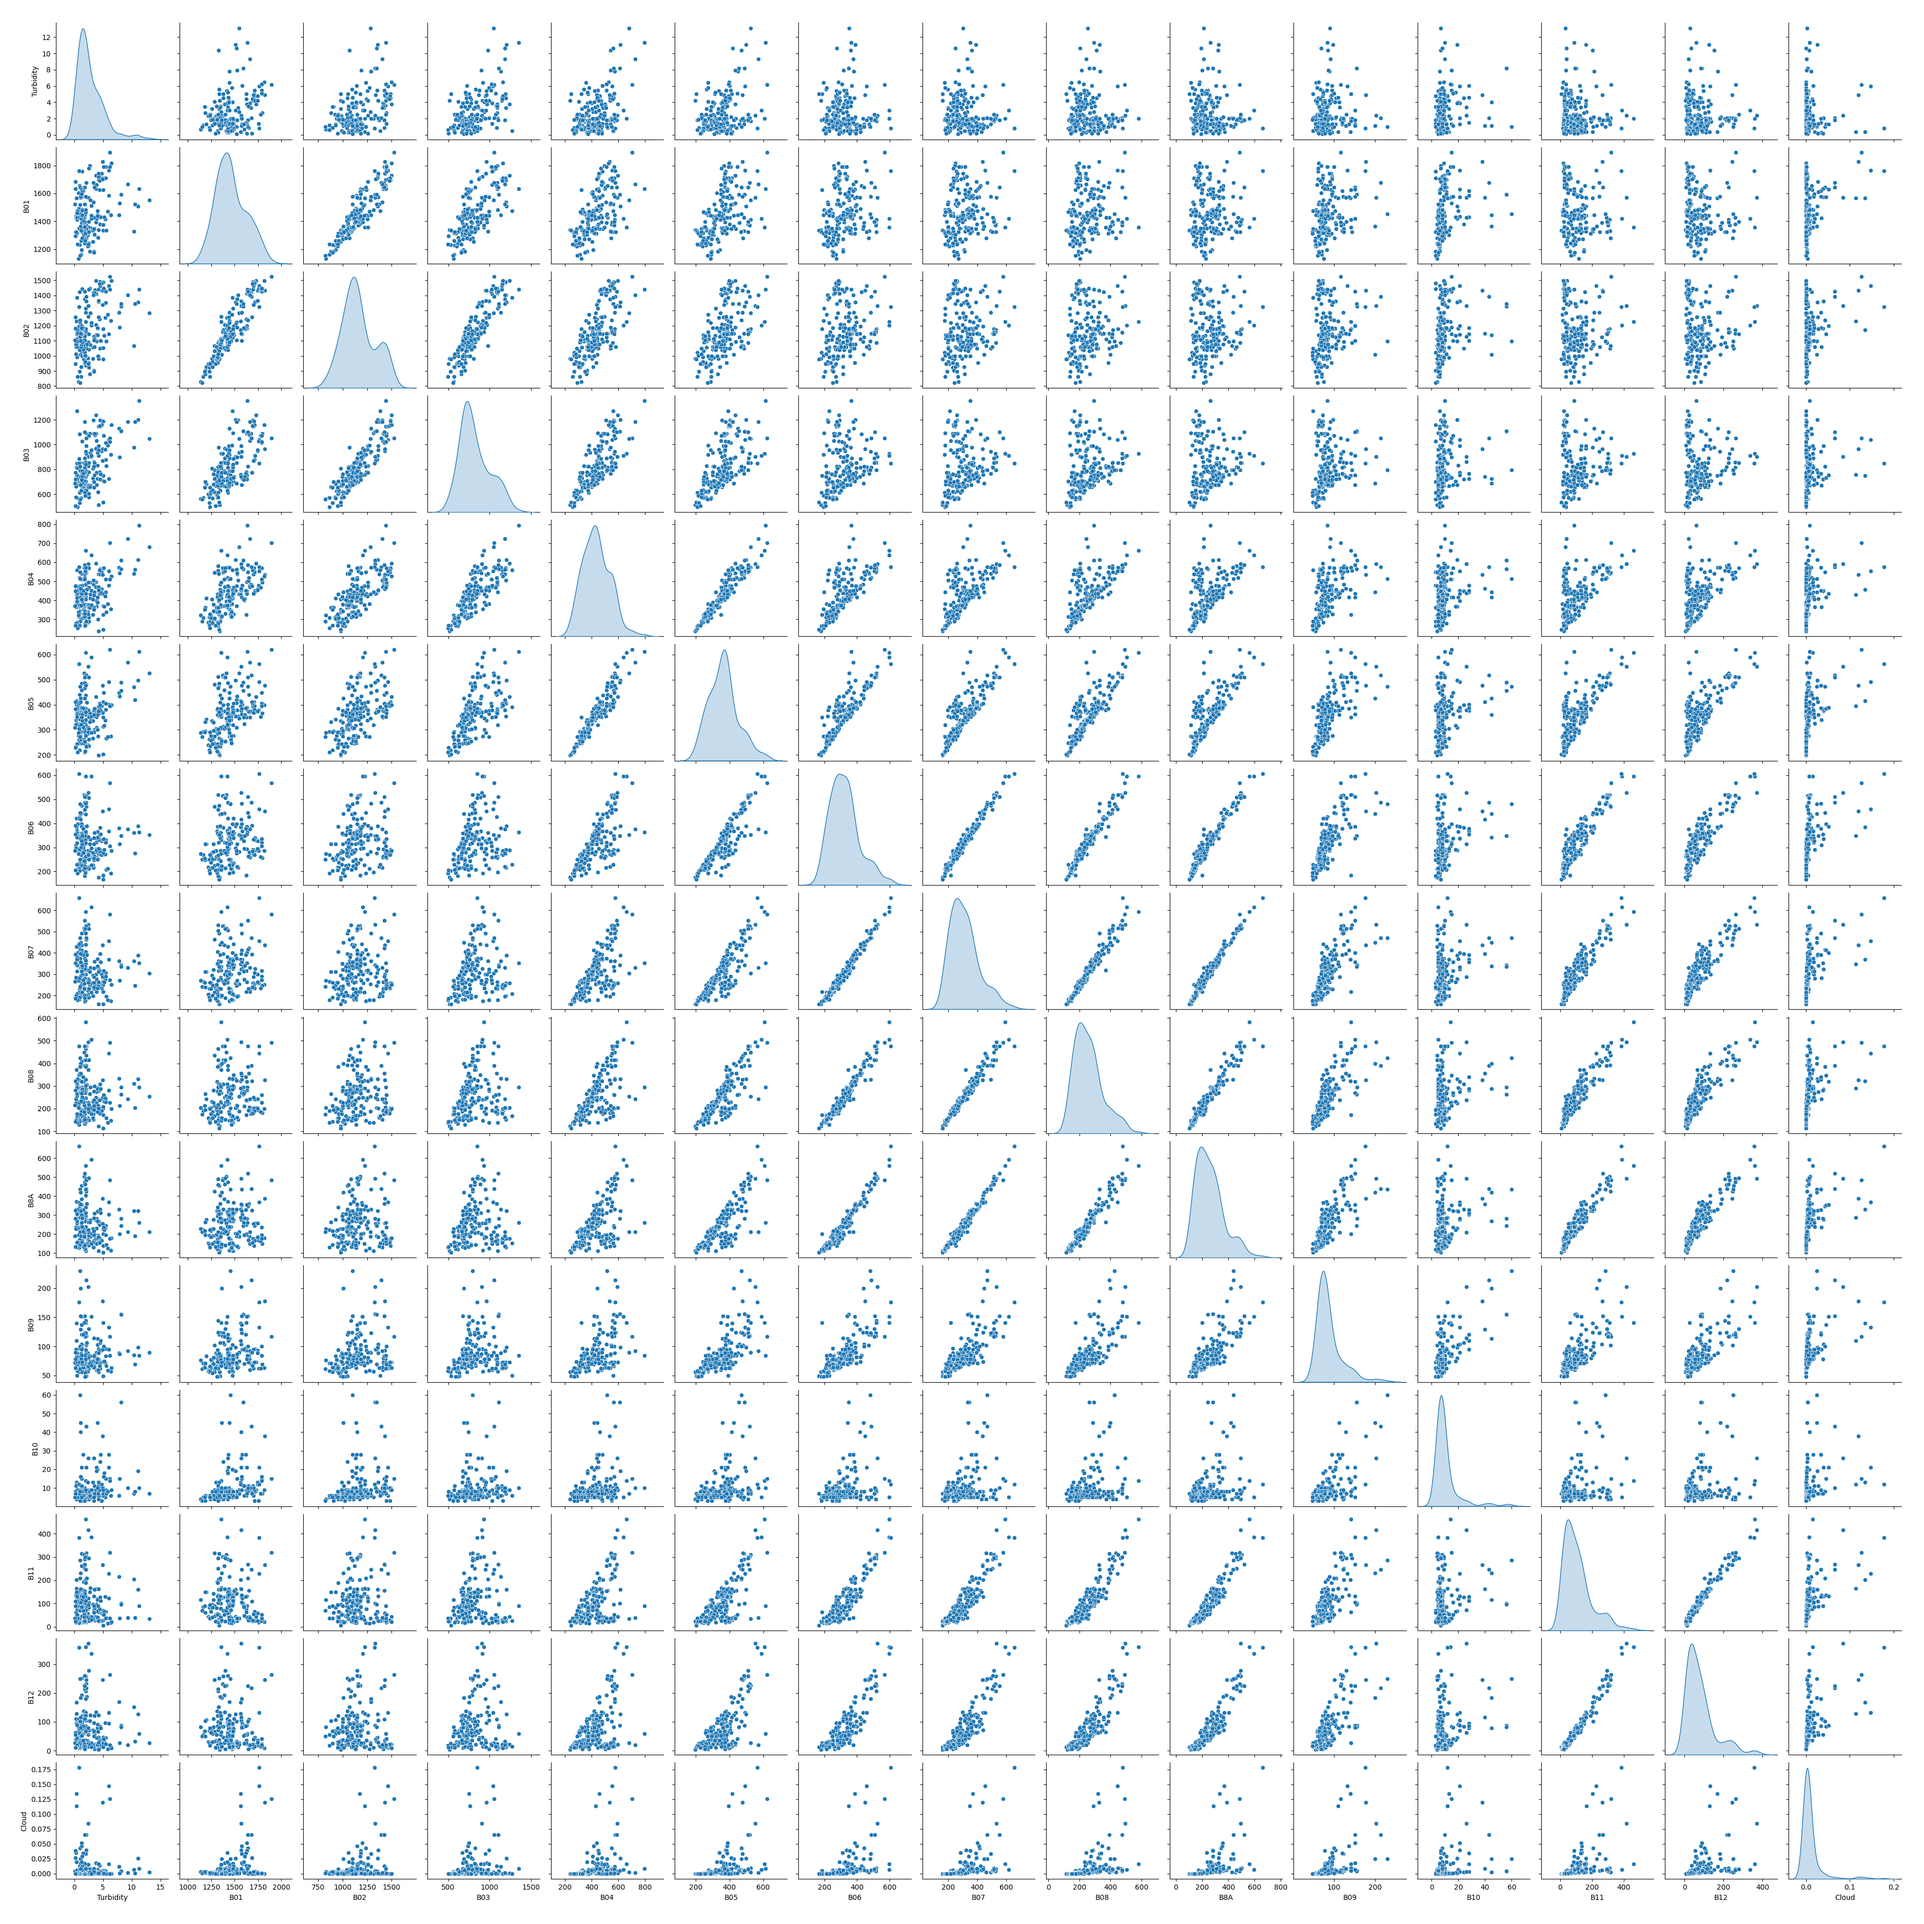
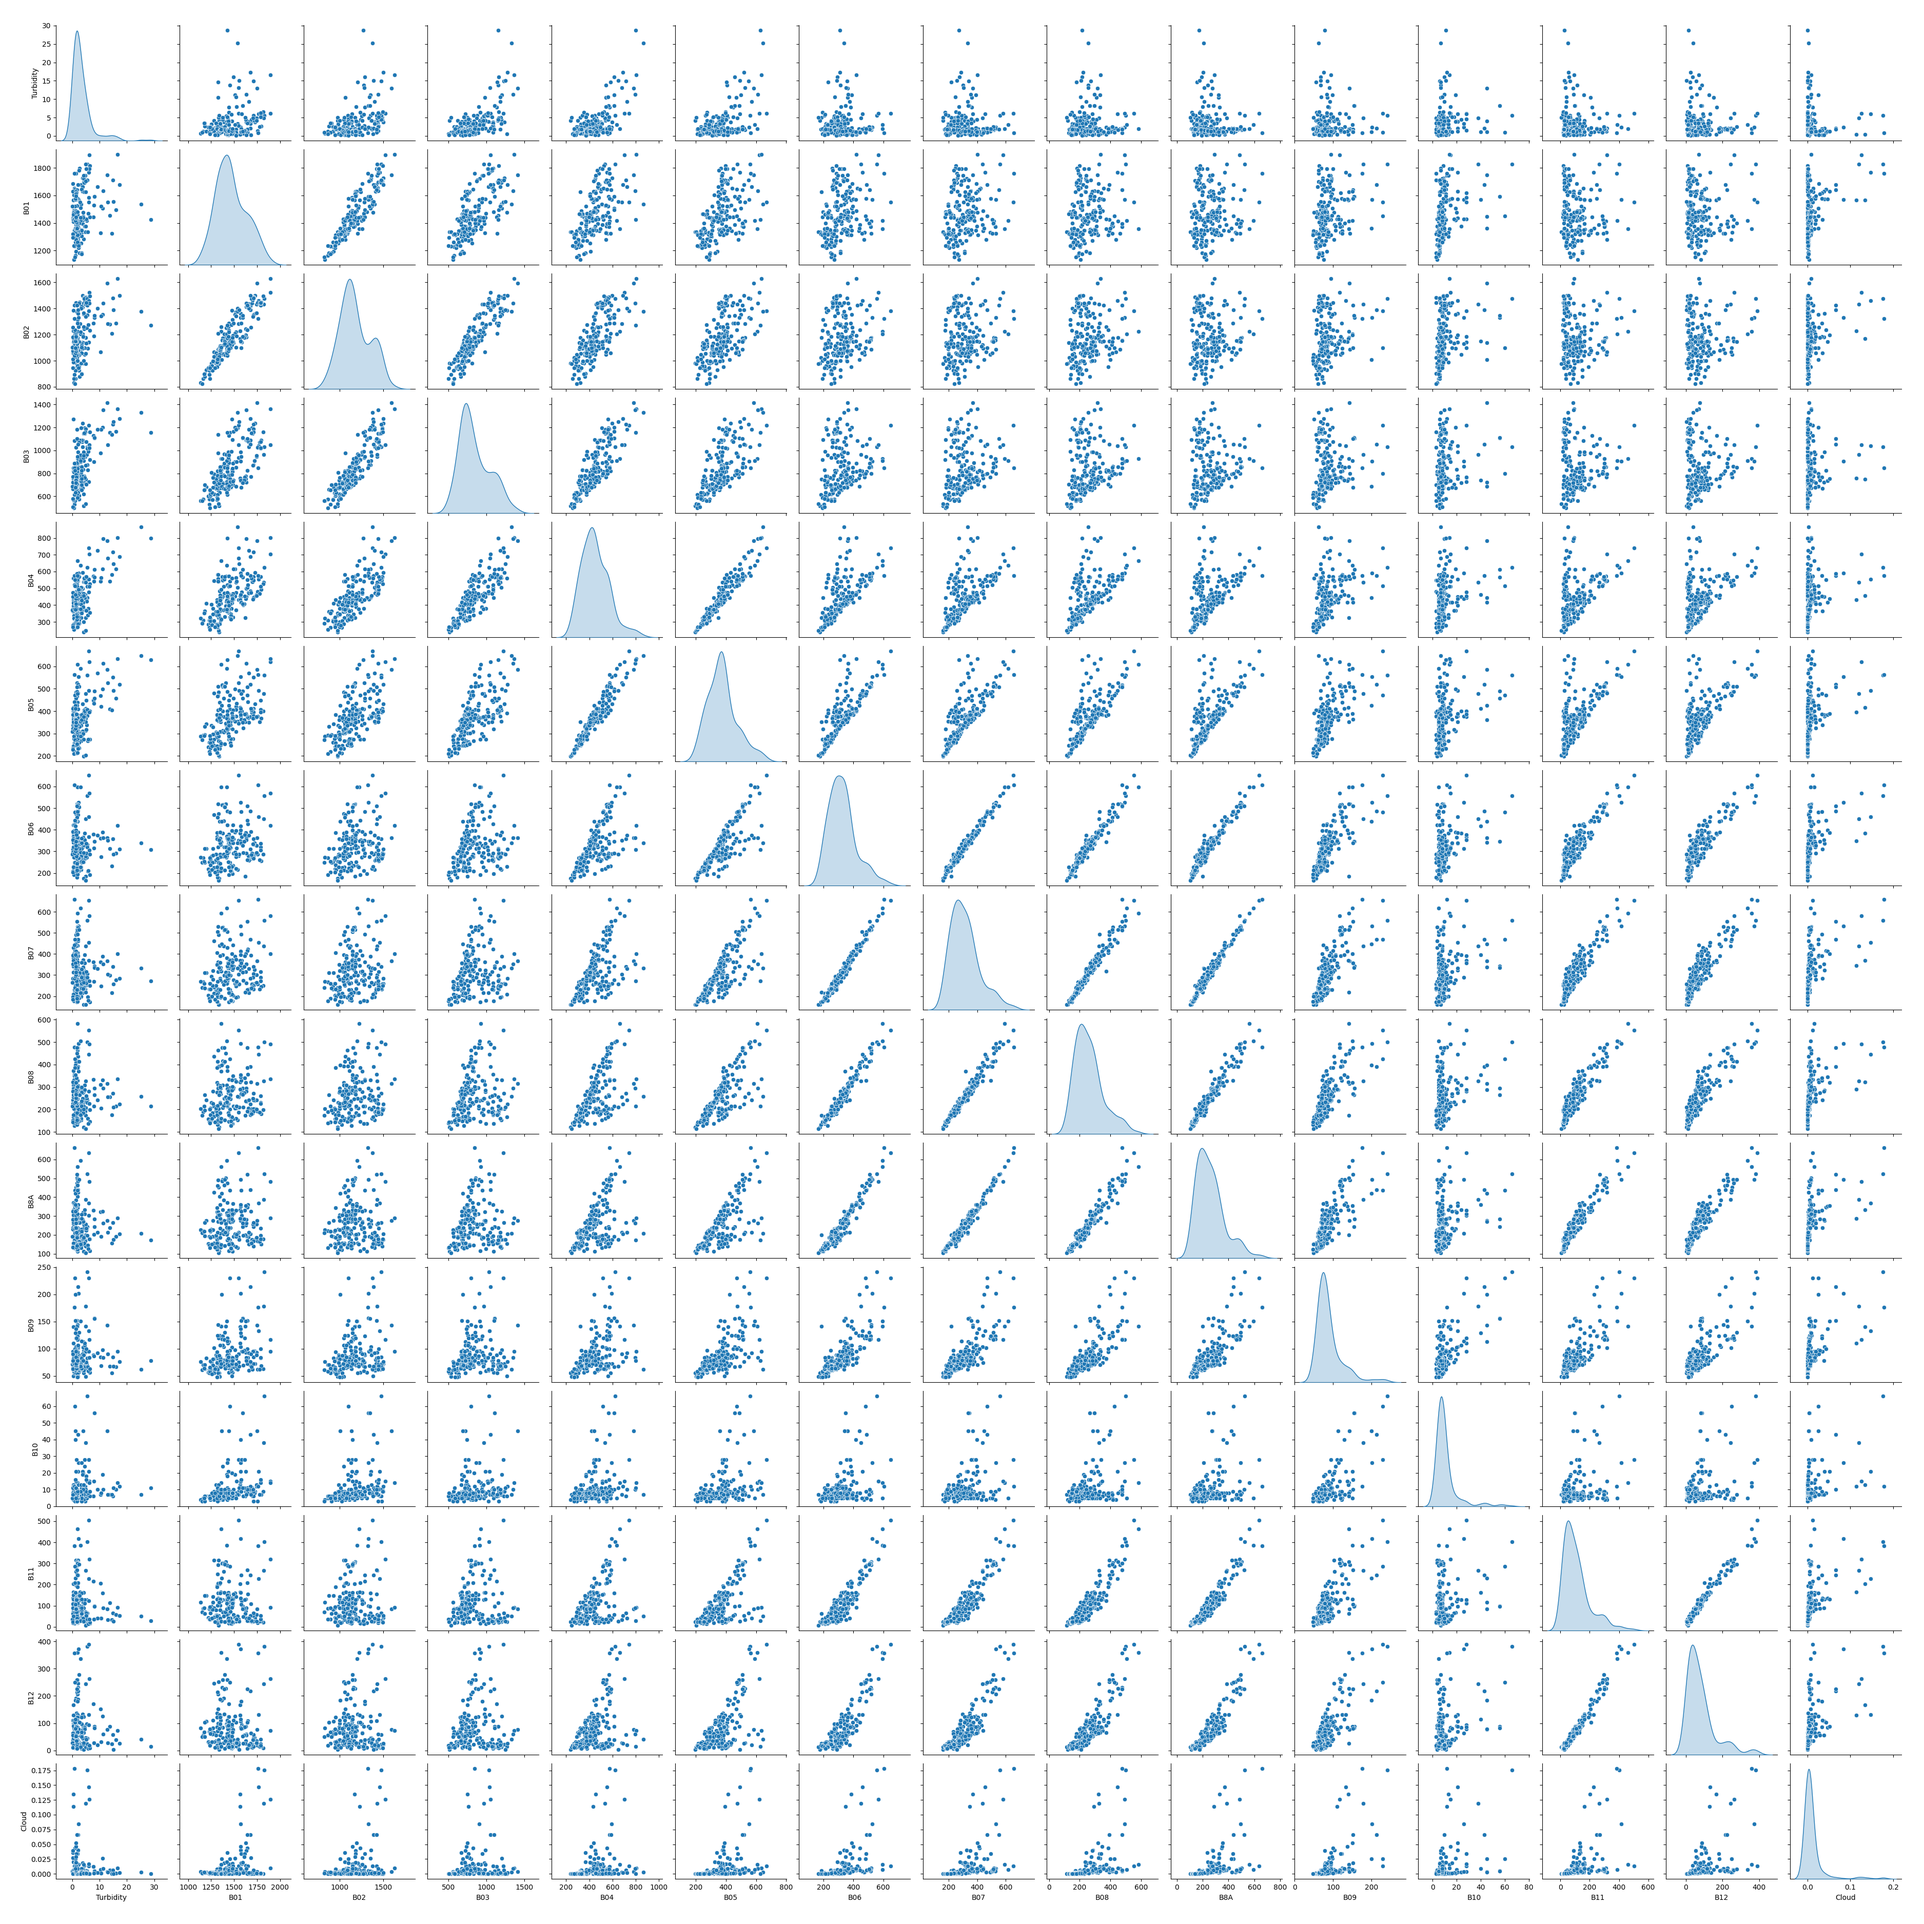
.

diff --git a/indiano.py b/indiano.py
@@ -3,6 +3,7 @@ import numpy as np
 import seaborn as sns
 import math
 import matplotlib.pyplot as plt
+
 from pandas import read_csv
 from keras.models import Sequential
 from keras.layers import Dense
@@ -40,22 +41,31 @@ df.columns = feature_names
 df = df[df['Cloud'] < 0.2]  # Soglia per la copertura nuvolosa
 
 # Rilevazione degli outlier con Z-score
-def detect_outliers_zscore(df, feature, threshold=2.58):
+def detect_outliers_zscore(df, feature, threshold=3):
     z_scores = (df[feature] - df[feature].mean()) / df[feature].std()
     outliers = df[np.abs(z_scores) > threshold]
     return outliers
 
 outliers = []
+outlier_indices = set()
 for feature in df.columns:
-    if feature != 'Cloud':
+    if feature != 'Cloud' and feature != 'Turbidity':
         feature_outliers = detect_outliers_zscore(df, feature)
         outliers.append(feature_outliers)
 
-# Rimozione degli outlier
-outlier_indices = set()
-for outlier_group in outliers:
-    outlier_indices.update(outlier_group.index)
+        # Visualizzazione degli outlier rilevati per ogni caratteristica
+        plt.scatter(feature_outliers.index, feature_outliers[feature], c='r', label='Outlier')
+        plt.scatter(df.index, df[feature], c='b', label='Non-outlier', alpha=0.3)
+        plt.title(f'Outliers in {feature}')
+        plt.xlabel('Index')
+        plt.ylabel(feature)
+        plt.legend()
+        plt.savefig(f'img-indiano/outliers_{feature}.png')
+        plt.close()
 
+        outlier_indices.update(feature_outliers.index)
+
+# Rimozione degli outlier
 df_no_outliers = df.drop(outlier_indices)
 
 # Analisi esplorativa dei dati
@@ -121,26 +131,26 @@ plt.savefig('img-indiano/training_validation_mae.png')
 plt.close()
 
 # Previsione sui dati di test
-predictions = model.predict(X_test_scaled[:10])
+predictions = model.predict(X_test_scaled[:])
 print("Predicted values are: ", predictions)
-print("Real values are: ", y_test[:10].values)
+print("Real values are: ", y_test[:].values)
 
-# Crea una tabella di confronto tra valori previsti e valori reali
-comparison_df = pd.DataFrame({
-    'Real Values': y_test[:10].values,
-    'Predicted Values': predictions.flatten()
-})
+# Creazione del grafico a punti con il colore dei marcatori desiderato
+plt.scatter(y_test, predictions, alpha=0.5, color='#6CE5E8')  # Grafico a punti
 
-# Visualizza la tabella e salvala come immagine
-fig, ax = plt.subplots(figsize=(10, 4))
-ax.axis('tight')
-ax.axis('off')
-table = ax.table(cellText=comparison_df.values, colLabels=comparison_df.columns, cellLoc='center', loc='center')
-table.auto_set_font_size(False)
-table.set_fontsize(12)
-plt.title('Real vs Predicted Values')
-plt.savefig('img-indiano/predicted_vs_real.png')
+# Linea di best fitting
+z = np.polyfit(y_test, predictions, 1)
+p = np.poly1d(z[0])  
+plt.plot([min(y_test), max(y_test)], [min(y_test), max(y_test)], color='red')
+
+plt.gca().set_facecolor('#DAE9FF')
+plt.title('Predicted vs Real Values with Best Fit Line')
+plt.xlabel('Real Values')
+plt.ylabel('Predicted Values')
+plt.savefig('img-indiano/predicted_vs_real_best_fit.png')
 plt.close()
+
+
 
 # Valutazione del modello di rete neurale
 mse_neural, mae_neural = model.evaluate(X_test_scaled, y_test)
@@ -184,6 +194,45 @@ print('Mean squared error using Random Forest: ', mse_rf)
 print('Mean absolute error Using Random Forest: ', mae_rf)
 print('R2 score Using Random Forest: ', r2_rf)
 
+# Istogrammi per il confronto delle metriche per ogni modello
+models = ['Linear Regression', 'Decision Tree', 'Random Forest']
+mse_values = [mse_neural, mse_lr, mse_dt, mse_rf]
+mae_values = [mae_neural, mae_lr, mae_dt, mae_rf]
+r2_values = [r2_neural, r2_lr, r2_dt, r2_rf]
+
+model_color = '#41B8D5'
+nn_color = '#6CE5E8'
+bg_color = '#DAE9FF'  # Colore di sfondo
+
+for i, model in enumerate(models):
+    fig, axs = plt.subplots(1, 3, figsize=(9, 10))
+
+    # MSE
+    axs[0].bar([model, 'Neural Net'], [mse_values[i + 1], mse_values[0]], color=[model_color, nn_color])
+    axs[0].set_title(f'Mean Squared Error \n {model} \nvs\n Neural Net')
+    axs[0].set_ylabel('MSE')
+    axs[0].set_facecolor(bg_color)  # Imposta il colore di sfondo
+
+    # MAE
+    axs[1].bar([model, 'Neural Net'], [mae_values[i + 1], mae_values[0]], color=[model_color, nn_color])
+    axs[1].set_title(f'Mean Absolute Error \n {model} \nvs\n Neural Net')
+    axs[1].set_ylabel('MAE')
+    axs[1].set_facecolor(bg_color)  # Imposta il colore di sfondo
+
+    # R2
+    axs[2].bar([model, 'Neural Net'], [r2_values[i + 1], r2_values[0]], color=[model_color, nn_color])
+    axs[2].set_title(f'R2 Score \n {model} \nvs\n Neural Net')
+    axs[2].set_ylabel('R2')
+    axs[2].set_facecolor(bg_color)  # Imposta il colore di sfondo
+
+    plt.tight_layout()
+    plt.savefig(f'img-indiano/model_comparison_{model}.png')
+    plt.close()
+
+
+
+
+
 # Importanza delle caratteristiche con Regressione Lineare
 feature_list = list(X.columns)
 coef = lr_model.coef_
@@ -218,6 +267,9 @@ for band in feature_names[1:-1]:  # Escludiamo 'Turbidity' e 'Cloud'
 # Selezione delle bande spettrali più importanti
 top_bands = feature_imp_lr.index[:5]  # Selezioniamo le prime 5 bande più importanti
 X_top_bands = df_no_outliers[top_bands]
+
+print('\nTop bands: ', top_bands, '\n')
+
 X_train_tb, X_test_tb, y_train_tb, y_test_tb = train_test_split(X_top_bands, y, test_size=0.2, random_state=20)
 
 scaler_tb = StandardScaler()
@@ -240,3 +292,23 @@ r2_neural_tb = r2_score(y_test_tb, model_top_bands.predict(X_test_tb_scaled))
 print('Mean squared error from neural net with top bands: ', mse_neural_tb)
 print('Mean absolute error from neural net with top bands: ', mae_neural_tb)
 print('R2 score from neural net with top bands: ', r2_neural_tb)
+
+# Previsione sui dati di test utilizzando le migliori bande
+predictions_top_bands = model_top_bands.predict(X_test_tb_scaled)
+print("Predicted values with top bands are: ", predictions_top_bands)
+print("Real values are: ", y_test_tb.values)
+
+# Creazione del grafico a punti con il colore dei marcatori desiderato
+plt.scatter(y_test_tb, predictions_top_bands, alpha=0.5, color='#6CE5E8')  # Grafico a punti
+
+# Linea di best fitting
+z = np.polyfit(y_test_tb, predictions_top_bands, 1)
+p = np.poly1d(z[0])
+plt.plot([min(y_test_tb), max(y_test_tb)], [min(y_test_tb), max(y_test_tb)], color='red')
+
+plt.gca().set_facecolor('#DAE9FF')
+plt.title('Predicted vs Real Values with Best Fit Line (Top Bands)')
+plt.xlabel('Real Values')
+plt.ylabel('Predicted Values')
+plt.savefig('img-indiano/predicted_vs_real_best_fit_top_bands.png')
+plt.close()
